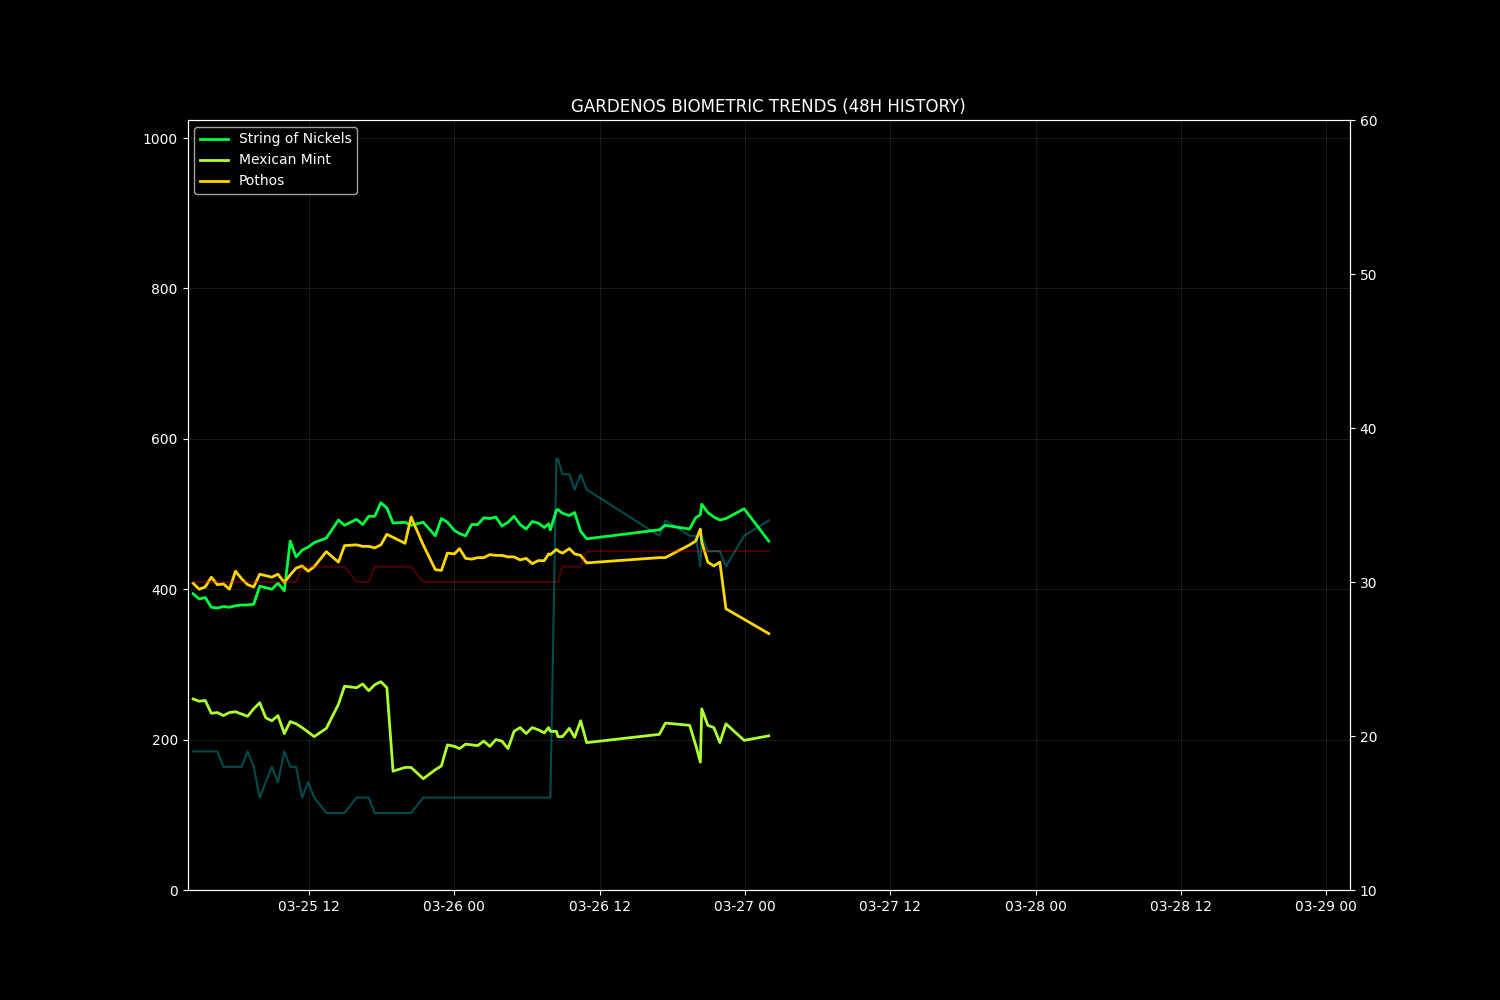
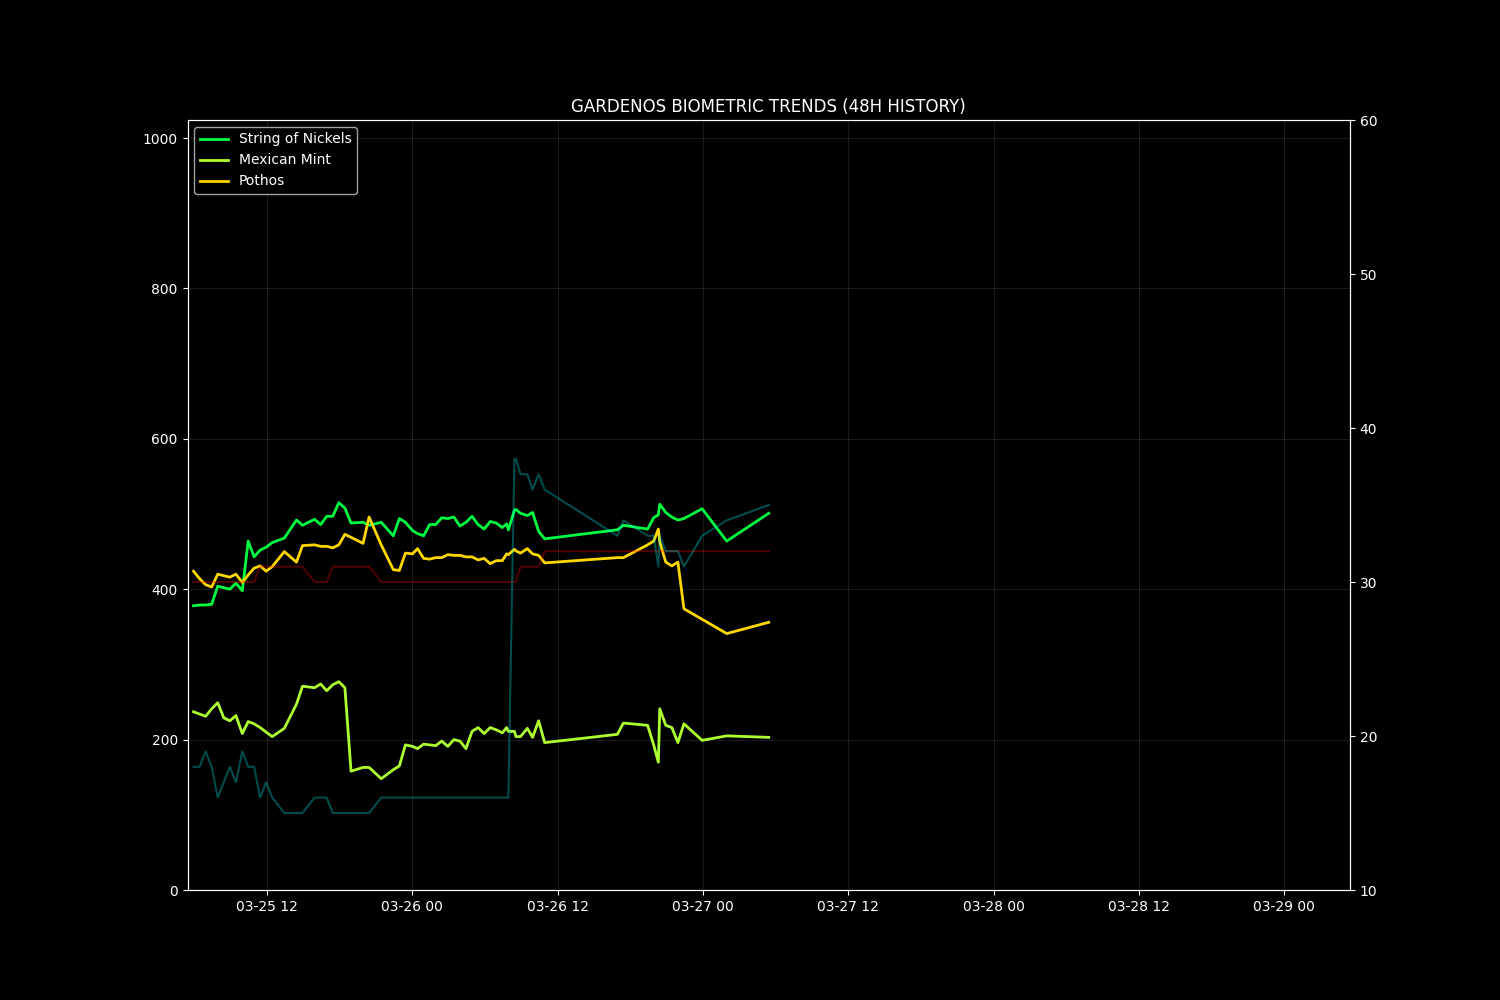
Warden Cycle: 2026-03-27 05:25:41

diff --git a/docs/data/observer_context.md b/docs/data/observer_context.md
@@ -1,21 +1,21 @@
 # 📝 Garden Observer Context
-**Generated:** 2026-03-26 21:58:01
+**Generated:** 2026-03-27 01:58:01
 
 ## 1. 🌡 Recent Telemetry (Last 12 Readings)
 ```csv
 timestamp,temp,hum,light,p1,p2,p3
-2026-03-26 20:55:28,32.0,32.0,851,502.0,219.0,436.0
-2026-03-26 21:25:28,32.0,32.0,843,496.0,216.0,431.0
-2026-03-26 21:55:28,32.0,32.0,849,492.0,196.0,436.0
+2026-03-26 22:25:28,32.0,31.0,714,494.0,221.0,374.0
+2026-03-26 23:55:30,32.0,33.0,879,507.0,199.0,360.0
+2026-03-27 01:57:31,32.0,34.0,877,464.0,205.0,341.0
 
 ```
 
 ## 2. 📊 Computed Metrics (Last 12 Calculations)
 ```csv
 timestamp,vpd,p1_pct,p1_slope,p2_pct,p2_slope,p3_pct,p3_slope,p4_pct,p4_slope,p5_pct,p5_slope,p6_pct,p6_slope,p1_is_dry,p2_is_dry,p3_is_dry
-2026-03-26 20:55:28,3.233,69.0,,94.0,,67.8,,,,,,,,False,False,False
-2026-03-26 21:25:28,3.233,70.9,,95.3,,69.2,,,,,,,,False,False,False
-2026-03-26 21:55:28,3.233,72.1,,100.0,,67.8,,,,,,,,False,False,False
+2026-03-26 22:25:28,3.281,71.5,,93.1,,85.5,,,,,,,,False,False,False
+2026-03-26 23:55:30,3.186,67.5,,100.0,,89.5,,,,,,,,False,False,False
+2026-03-27 01:57:31,3.138,80.7,,100.0,,94.9,,,,,,,,False,False,False
 
 ```
 
